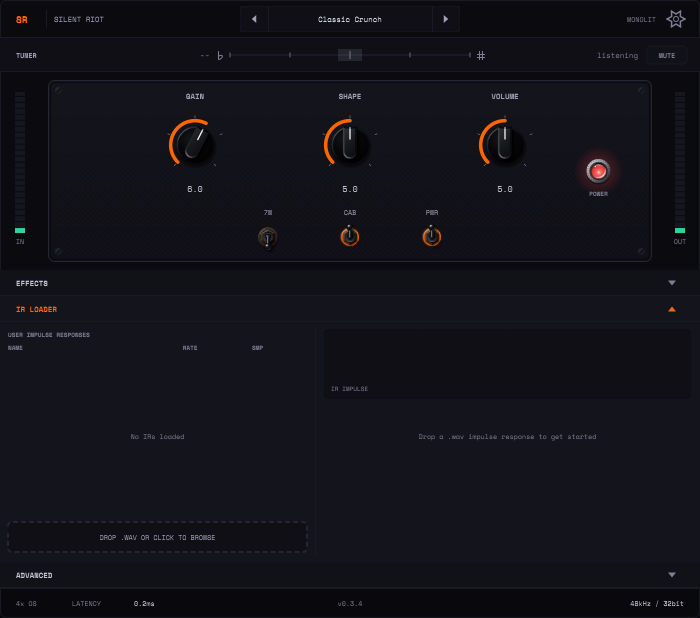
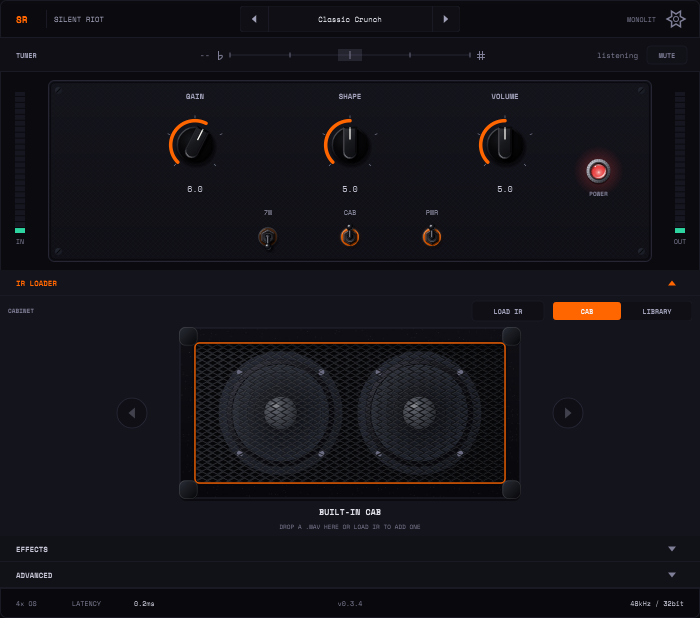
feat(gui): put the IR LOADER directly under the amp, above EFFECTS (#53)
Sections now stack IR LOADER, EFFECTS, ADVANCED so the head and its cab
read as one rig. Tab order follows; manual screenshots re-rendered.

diff --git a/src/PluginEditor.cpp b/src/PluginEditor.cpp
@@ -321,10 +321,12 @@ SilentRiotEditor::SilentRiotEditor(SilentRiotProcessor& p)
     halfPowerToggle.setExplicitFocusOrder(5);
     cabSimToggle.setExplicitFocusOrder(6);
     powerToggle.setExplicitFocusOrder(7);
-    // EFFECTS section + its controls come after the amp controls
-    fxSectionBar.setExplicitFocusOrder(8);
+    // The IR LOADER sits directly under the amp, so its bar comes next; then
+    // the EFFECTS section and its controls
+    irSectionBar.setExplicitFocusOrder(8);
+    fxSectionBar.setExplicitFocusOrder(9);
     {
-        int order = 9;
+        int order = 10;
         // Titles are qualified by effect — several cards share a knob name
         // (MIX, TONE), and the visible label is a sibling of the slider, so a
         // screen reader has nothing else to disambiguate them with.
@@ -359,11 +361,10 @@ SilentRiotEditor::SilentRiotEditor(SilentRiotProcessor& p)
         effectsPanel.delaySyncToggle().setDescription("Delay tempo sync");
     }
 
-    // These two literals are NOT derived from the `order` variable above (which
-    // goes out of scope at the closing brace of that block) — they are hand-set
-    // to continue the sequence it produces. Adding INPUT/OUTPUT to the knob list
-    // shifted every order value after them by +2, so these must shift too.
-    irSectionBar.setExplicitFocusOrder(28);
+    // This literal is NOT derived from the `order` variable above (which goes
+    // out of scope at the closing brace of that block) — it is hand-set to
+    // continue the sequence it produces (10 + 14 knobs + 5 toggles = 29).
+    // Adding a control to the list above shifts it, so it must shift too.
     advSectionBar.setExplicitFocusOrder(29);
 
     // Restore UI state
@@ -745,15 +746,15 @@ void SilentRiotEditor::layoutContent()
                                   - static_cast<float>(plate.getX()),
                               plate.getHeight() * 0.5f });
 
-    fxSectionBar.setBounds(area.removeFromTop(kSectionH));
-    int fxH = static_cast<int>(fxPanelAnimH);
-    if (fxH > 0)
-        effectsPanel.setBounds(area.removeFromTop(fxH));
-
     irSectionBar.setBounds(area.removeFromTop(kSectionH));
     int irH = static_cast<int>(irPanelAnimH);
     if (irH > 0)
         irLoaderPanel.setBounds(area.removeFromTop(irH));
+
+    fxSectionBar.setBounds(area.removeFromTop(kSectionH));
+    int fxH = static_cast<int>(fxPanelAnimH);
+    if (fxH > 0)
+        effectsPanel.setBounds(area.removeFromTop(fxH));
 
     advSectionBar.setBounds(area.removeFromTop(kSectionH));
     int advH = static_cast<int>(advPanelAnimH);

diff --git a/CLAUDE.md b/CLAUDE.md
@@ -135,7 +135,7 @@ cmake -B build -DSR_BUILD_TESTS=ON # Build with tests
 - **PresetSelector.h/.cpp** — `[◂ | name | ▸]` cyclic preset browser
 - **SegmentedSelector.h/.cpp** — Row of mutually-exclusive buttons
 - **SettingsPanel.h/.cpp** — Overlay (340px) with UI preferences + About section
-- **IRLoaderPanel.h/.cpp** — Two views behind a `CAB | LIBRARY` `SegmentedSelector` (top right; the editor persists it as the `irView` property, default CAB). **CAB**: a `CabinetView` plus a LOAD IR chip; its arrows call `stepIR()`, which cycles IR_INDEX 0 (built-in cab) → each loaded IR → wrap, and reports through `onIRSelected` — the editor maps 0 to `selectBuiltInCab()` (sets IR_INDEX 0 and applies it at once, like `selectUserIR`). **LIBRARY**: scrollable IR list, waveform display, drop zone. Drag-and-drop works in both (category tabs per UI spec §5.7 not yet implemented — user-IR-only today)
+- **IRLoaderPanel.h/.cpp** — Two views behind a `CAB | LIBRARY` `SegmentedSelector` (top right; the editor persists it as the `irView` property, default CAB). **CAB**: a `CabinetView` plus a LOAD IR chip; its arrows call `stepIR()`, which cycles IR_INDEX 0 (built-in cab) → each loaded IR → wrap, and reports through `onIRSelected` — the editor maps 0 to `selectBuiltInCab()` (sets IR_INDEX 0 and applies it at once, like `selectUserIR`). **LIBRARY**: scrollable IR list, waveform display, drop zone. Drag-and-drop works in both (category tabs per UI spec §5.7 not yet implemented — user-IR-only today). The section sits directly under the amp: `layoutContent()` stacks IR LOADER → EFFECTS → ADVANCED, and the hand-set Tab order (`irSectionBar` 8, `fxSectionBar` 9, effects controls 10–28, `advSectionBar` 29) follows it
 - **CabinetView.h/.cpp** — the CAB view: a 2x12 cab front painted in code (`paintCabinet()`: tolex with pebble grain, plain black corner caps (owner prefers them simple), orange accent piping, a black expanded-metal grille — staggered diamond openings filled even-odd — over two speakers that show through. Grille, baffle, speakers and caps are fixed black in both themes, like the real parts; only the tolex and piping follow the theme), at `kCabAspect` 2:1 (a little wider than a real 2x12's 3:2; trim scales with the cab's *height*, and the two speakers sit side by side in the middle, so a wider box still reads as a 2x12), round drawn arrow buttons either side of it, the playing name + detail line under it. Display only — `onStep(±1)` goes to the panel
 - **IRWaveformDisplay.h/.cpp** — Waveform plot with envelope fill
 - **EffectsPanel.h/.cpp** — 2×2 card grid (UTILITY / BOOST / DELAY / REVERB), in the faceplate's hardware style: each card is an `AmpFaceplate::paintPlate` panel, the knobs are the amp row's pointer knobs at `setScale(0.7)` (name on top, engraved value, 70×80px), and each card's ON is a `Style::Jewel` toggle beside its title. DELAY's **SYNC** and **PP** are the amp row's `Style::Switch` bat toggles, stacked SYNC over PP down the card's left before TIME; that stack (2 × `minHeight(Switch)`) is the tallest thing in any card and sets `kCardH` (136, `panelHeight` 304) — every card shares it so the knob rows stay level. DELAY has no division row: **SYNC** turns its TIME knob into the division selector — `DelayTimeAttachment` (`PluginEditor.h`) binds the one knob to `DELAY_TIME` with SYNC off and to `DELAY_SYNC_DIV` with it on (one detent per division, `syncDivisionFromKnob()` in `TempoSync.h`; MANUAL, index 0, *is* SYNC off), and keeps the last division in the `delayLastSyncDiv` state property. The parameters are unchanged, so sessions and automation still load. The card metrics static_assert against `NotchKnob::stripHeight`, `ToggleSwitch::minHeight` and `panelHeight`

diff --git a/tools/README.md b/tools/README.md
@@ -23,7 +23,7 @@ DI / test signal ──► sr_render ──► <id>.f32 + .json + .wav ──►
 | `sr_wobble.py` | Envelope modulation on a constant tone (free-running loops) | no | ✅ |
 | `sr_bloom.py` | Transient recovery — rebound after the decay ("delayed pluck") | no | ✅ |
 | `signoff.py` | Orchestrates renders → analysis → §4 gate table + exit code | no | ✅ end-to-end against a stub render |
-| `sr_editor_snapshot.cpp` | Paints the real editor offscreen to a PNG (the manual's screenshots in `resources/images/`). `sr_editor_snapshot out.png [fx] [ir] [adv] [off] [scale=N] [theme=N] [set=<paramID>:<0..1>]... [loadir=<file.wav>]... [irview=0|1]`, run under `xvfb-run` (`set=` sets any parameter, e.g. `set=boostOn:1`; `loadir=` loads a user IR, `irview=` picks the IR LOADER's CAB (0) or LIBRARY (1) view; `effects-panel.png` is the `fx set=boostOn:1 set=reverbOn:1` render cropped to 0,270 700×332); links the full plugin source list (checked by `verify.sh`) | **yes** (`-DSR_BUILD_TOOLS=ON`) | ✅ Linux/Xvfb |
+| `sr_editor_snapshot.cpp` | Paints the real editor offscreen to a PNG (the manual's screenshots in `resources/images/`). `sr_editor_snapshot out.png [fx] [ir] [adv] [off] [scale=N] [theme=N] [set=<paramID>:<0..1>]... [loadir=<file.wav>]... [irview=0|1]`, run under `xvfb-run` (`set=` sets any parameter, e.g. `set=boostOn:1`; `loadir=` loads a user IR, `irview=` picks the IR LOADER's CAB (0) or LIBRARY (1) view; `effects-panel.png` is the `fx set=boostOn:1 set=reverbOn:1` render cropped to 0,536 700×332 — the CAB toggle opens the IR LOADER, which now sits above EFFECTS); links the full plugin source list (checked by `verify.sh`) | **yes** (`-DSR_BUILD_TOOLS=ON`) | ✅ Linux/Xvfb |
 | `signoff_gates.json` | The §4 gates + test matrix as data (targets `TBM` until the Calibration Pass) | no | ✅ parses |
 
 > **Build note.** `sr_render` was unbuilt for a long time and had accumulated two

diff --git a/.agents/STATE.md b/.agents/STATE.md
@@ -13,7 +13,8 @@ _Updated 2026-10-29 (IR loader cab view)_
   toggles stacked left of TIME, and SYNC turns TIME into the division knob (`DelayTimeAttachment`).
 - IR LOADER opens on a drawn 2x12 cab (`src/gui/CabinetView.*`: 2:1, plain black caps, orange
   piping, black expanded-metal grille) with arrows that cycle the built-in cab + every IR; a
-  CAB | LIBRARY switch brings back the list (`irView` UI property).
+  CAB | LIBRARY switch brings back the list (`irView` UI property). The IR LOADER sits directly under
+  the amp, above EFFECTS (section order IR LOADER, EFFECTS, ADVANCED).
 - Contributor issues #37–#48 are open (GUI bugs, IR loader, installers, README screenshot).
 - Commit as `Boris Miscenco <219343213+elarmuzik1993@users.noreply.github.com>`: export
   `GIT_AUTHOR_EMAIL`/`GIT_COMMITTER_EMAIL`; the cloud env's values beat `git -c`.

diff --git a/CHANGELOG.md b/CHANGELOG.md
@@ -15,6 +15,8 @@ tagged release will collect everything below.
 
 ### Changed
 
+- The IR LOADER now sits directly under the amp, above EFFECTS, so the head and its cab read
+  as one rig; Tab reaches the IR LOADER bar before the EFFECTS controls.
 - DELAY: the row of sync-division buttons is gone. A **SYNC** bat toggle, stacked over PP
   on the card's left like the amp's 7W/CAB/PWR switches, turns the TIME knob into the
   division selector (1/16 to 1/2, one click per division); with SYNC off it sets

diff --git a/docs/manual/presets-and-settings.md b/docs/manual/presets-and-settings.md
@@ -45,7 +45,7 @@ Your host saves the plugin state with the project. It contains:
 
 - every parameter (all knobs, switches and effect settings),
 - the IRs you loaded, stored in full ([Cabinets and IRs](cabinets-and-irs.md#saved-with-your-project)),
-- the display settings above, and which panels (EFFECTS, IR LOADER, ADVANCED)
+- the display settings above, and which panels (IR LOADER, EFFECTS, ADVANCED)
   were open.
 
 Tuner **MUTE** is the exception: it is always off when a project loads, so a

diff --git a/docs/manual/cabinets-and-irs.md b/docs/manual/cabinets-and-irs.md
@@ -21,7 +21,7 @@ speaker IRs yet — for the most realistic cab sound, load your own.
 
 ## Loading an impulse response
 
-The IR LOADER is the lower panel in the [main window screenshot](../../resources/images/silent-riot-main.png).
+The IR LOADER is the panel directly under the amp in the [main window screenshot](../../resources/images/silent-riot-main.png).
 
 The panel has two views, picked with the **CAB | LIBRARY** switch at its top
 right (the choice is saved with the project):
